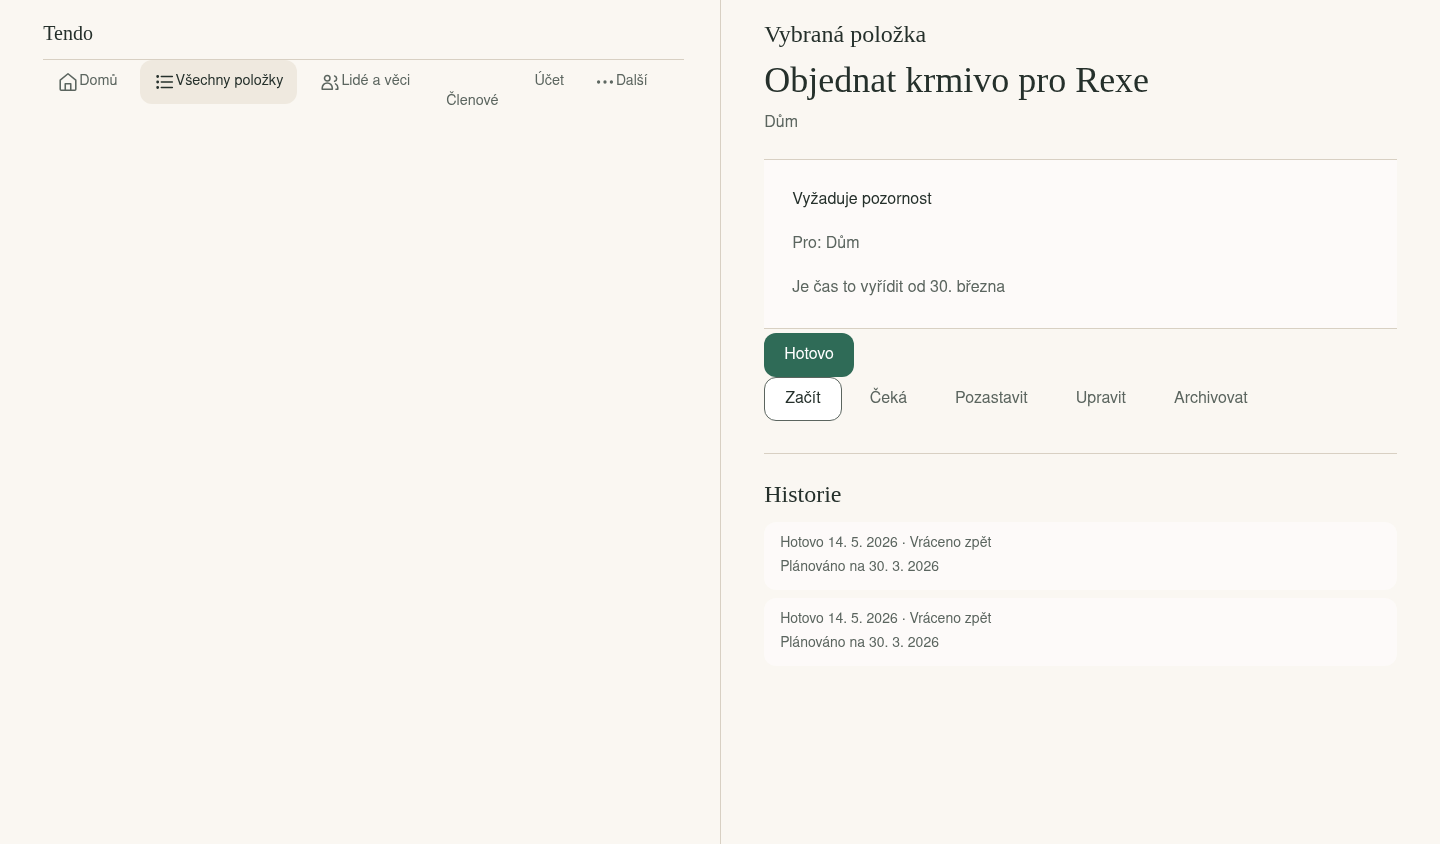
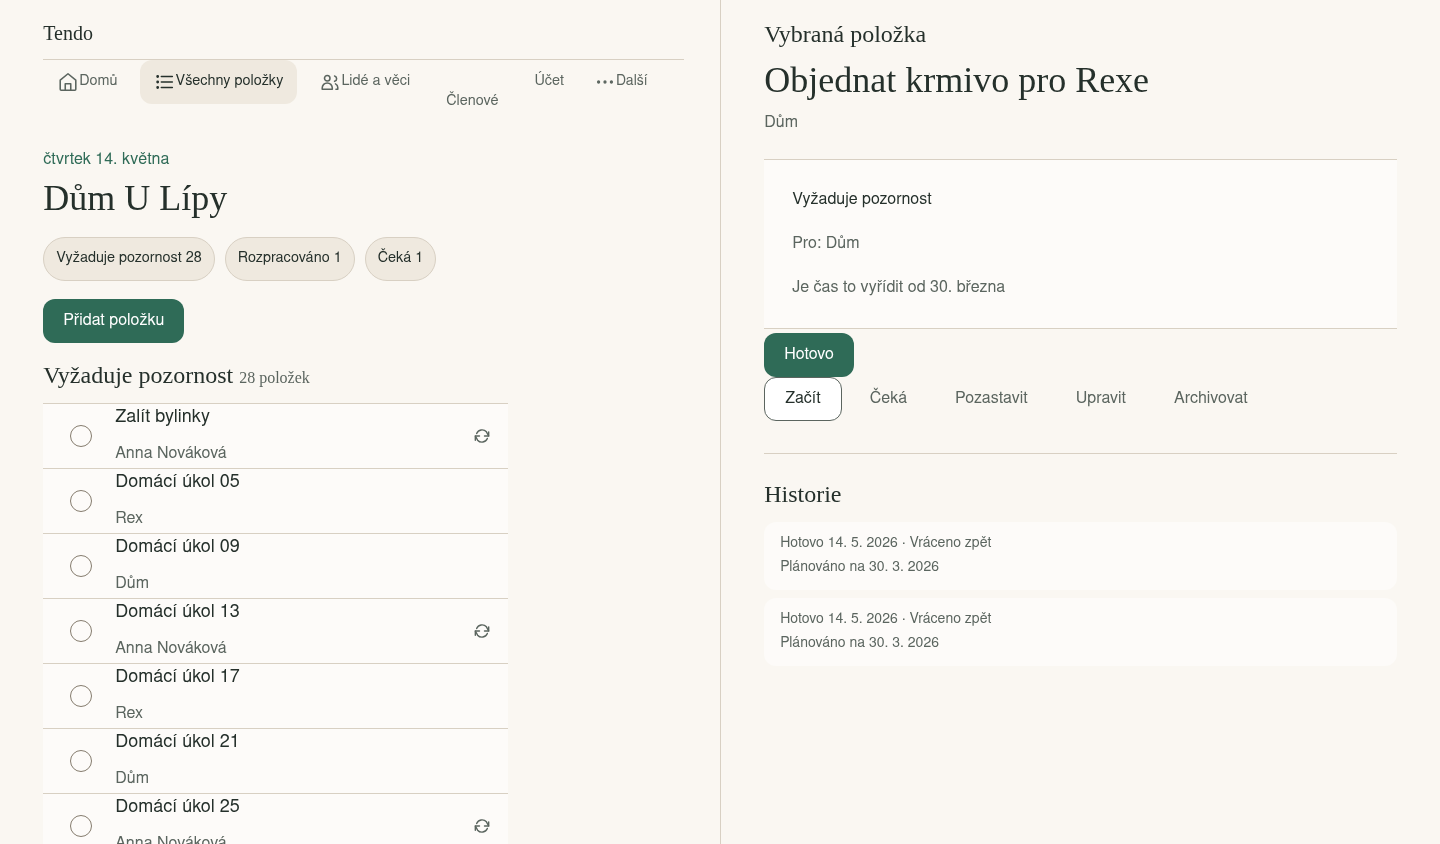
Correct direction A README after independent review; recapture on 8f3f966

diff --git a/docs/design/v3-directions/a/README.md b/docs/design/v3-directions/a/README.md
@@ -9,7 +9,7 @@ A direct, low-noise daily list that gets wider as the screen allows. The item it
 ## Layout and navigation
 - Phone (<768px): compact top brand/account line, single-column list, and a fixed bottom bar for Home, All items and People and things plus a visible More button. More opens a small menu with Members and Account.
 - Tablet (768–1023px): list structure with wider reading width; bottom navigation remains.
-- Desktop (≥1024px): 190px left rail and two useful surfaces: the Home/All items list remains on the left while selected item detail opens persistently on the right; the URL remains `/items/:id`, including deep links, reload and browser Back. Lists and facts stay near 72ch. On deep-link reload, Home provides the list context beside the selected item.
+- Desktop (≥1024px): 190px left rail and two useful surfaces: a list remains on the left while selected item detail opens persistently on the right; the URL stays `/items/:id`, so a deep link opens the same split view. The list beside the item is always Home, even when the item was opened from All items. Lists and facts stay near 72ch.
 - Home leads with local date and household, followed by attention groups and quieter groups. A row uses a circular done target, title, compact subject/assignee/date context and a repeat mark.
 
 ## Type and color
@@ -18,9 +18,9 @@ A direct, low-noise daily list that gets wider as the screen allows. The item it
 - WCAG contrast, calculated from sRGB relative luminance of these hex values: ink on paper 12.79:1; muted on paper 5.66:1; white on accent 6.25:1; white on strong accent 9.27:1; accent on paper 5.85:1. These token pairs pass 4.5:1; not every rendered pair (for example muted text on sand) was measured. No new font, icon or UI package added.
 
 ## Density, interaction and household fit
-- In the populated 390×844 capture, six row starts are visible; on 1440×844, eight are visible. These are screenshot observations, not user-study measurements.
-- Create uses the existing API-backed form and one-off default. Phone uses a full-screen sheet; desktop/tablet uses a centered dialog. Escape and Cancel close it, keyboard Tab is trapped inside, and focus returns to Add. Repeat is a real switch with a 54×32 track inside a larger touch row. Fixed vs after-completion explanatory copy gives a short household example in English and Czech. Edit reuses the same form.
-- Home uses the existing idempotent completion/Undo flow. Detail completion calls the existing `completeItem` and `undoCompletion` APIs, with ETag reads, result messaging and reload. Done is the only filled detail action; Start/Resume is outlined and Waiting, Pause, Edit and Archive are quiet. Detail facts and history are distinct.
+- In the populated 390×844 capture, six complete rows (seven row starts) are visible; on 1440×844, eight complete rows (nine row starts). These are screenshot observations, not user-study measurements.
+- Create uses the existing API-backed form and one-off default. Phone uses a full-screen sheet; desktop/tablet uses a centered dialog. Escape and Cancel close it, keyboard Tab is trapped inside, and focus returns to Add. Repeat is a real switch; its touch target is the 54×32 track itself (the surrounding row is not clickable). Fixed vs after-completion explanatory copy gives a short household example in English and Czech. Edit reuses the same form.
+- Home uses the existing idempotent completion/Undo flow. Detail completion calls the existing `completeItem` and `undoCompletion` APIs, with ETag reads, result messaging and reload. Done is the only filled action inside detail; Start/Resume is outlined and Waiting, Pause, Edit and Archive are quiet. Detail completion keeps one idempotency key across retries after an uncertain result, and Undo is offered only when a completion was recorded. Detail facts and history are distinct.
 - In the desktop split view the selected item owns the page's single h1, document title and screen-change focus; the list beside it uses an h2 and refreshes in place after any change made in the pane (done/undo, edit, workflow, archive).
 - The title, household object and a clear done affordance aim to make a routine check understandable without project-management terminology.
 
@@ -30,20 +30,21 @@ Orchestrator review of the final production-build captures (2026-11-01):
 - Desktop Home (`home-populated-1440-en.png`): Add item is pushed to the far right edge, away from the list it belongs to; the list keeps a ~500px measure, leaving a wide empty right half when no item is selected.
 - Rows: the title and subject sit on separate lines with a large gap, so rows read as loose pairs rather than one item; repeat glyphs are small and low-contrast.
 - Phone (`home-populated-390-en.png`): attention chips wrap their counts onto a second line; the bottom bar wraps "People & things" onto two lines.
+- Desktop split view shows two filled buttons at once: Add item in the list and Done in the pane (`detail-1440-*.png`), so the screen as a whole has more than one primary action.
 - Detail: the facts card repeats state ("Done", "For: Dům") as unlabelled lines; Archive sits directly under the completion notice with little separation.
-- The add sheet traps focus with Escape/backdrop/Cancel close paths; screen-reader announcement is not separately audited.
+- Add and Edit dialogs trap Tab and close on Escape/backdrop/Cancel; an uncertain restored create focuses its notice. Screen-reader announcement is not separately audited.
 - More (phone) opens a visible Members/Account menu (`navigation-more-390-en.png`); not tested with real users.
-- Repeat interval unit initially reads "years" (existing form default), which may surprise households adding a monthly task.
-- Capture coverage gaps: no 360px or 1280px captures of Add, Edit or Detail; no phone All items capture; Czech captures cover Home, Repeat and Detail only (no Czech one-off Add, Edit, Done/Undo or open More menu).
+- Repeat interval unit initially reads "years" (existing form default), while the explanatory examples speak of a monthly filter change; the default may surprise households adding a monthly task.
+- Capture coverage gaps: no 360px or 1280px captures of Add, Edit or Detail; no phone All items capture; Czech captures cover Home, phone Repeat and Detail only (no desktop Czech Repeat, Czech one-off Add, Edit, Done/Undo or open More menu); no capture scrolls to Home's In progress or Waiting sections (only their counts in the overview chips are visible).
 - Only focused screens carry this direction. Dark theme, other routes/states, very large backlogs, zoom and human testing are not proven. No human household participants were involved.
 
 These are inputs for the V3-05 comparison; they are not fixed in the prototype.
 
 ## Test status
-Branch head and results are recorded on Issue #324 and the docs PR.
+Results are for prototype code head `8f3f966`; later branch commits change only this folder. Details are on Issue #324.
 - `npm run lint`, `npm run typecheck`, `npm run build`: pass.
-- Vitest full suite: 787/787 pass.
-- Required default PostgreSQL E2E (`scripts/e2e-smoke.sh`): pass on the branch head (50/50 journeys). Default E2E selection is unchanged; the capture spec is opt-in only.
+- Vitest full suite: 788/788 pass.
+- Required default PostgreSQL E2E (`scripts/e2e-smoke.sh`, production binary, real PostgreSQL): the suite passed as a whole ("Native production-binary E2E passed.", exit 0). Default E2E selection is unchanged; the capture spec is opt-in only.
 - Direction capture (opt-in `TENDO_DIRECTION_CAPTURE=1` with `TENDO_UX_AUDIT_DIR`): pass; all 28 screenshots in this folder come from that run, using the production build, real PostgreSQL and authenticated synthetic households. Done/Undo captures wait for the Undo round-trip so each starts from an open item.
 
 ## Screenshot index
